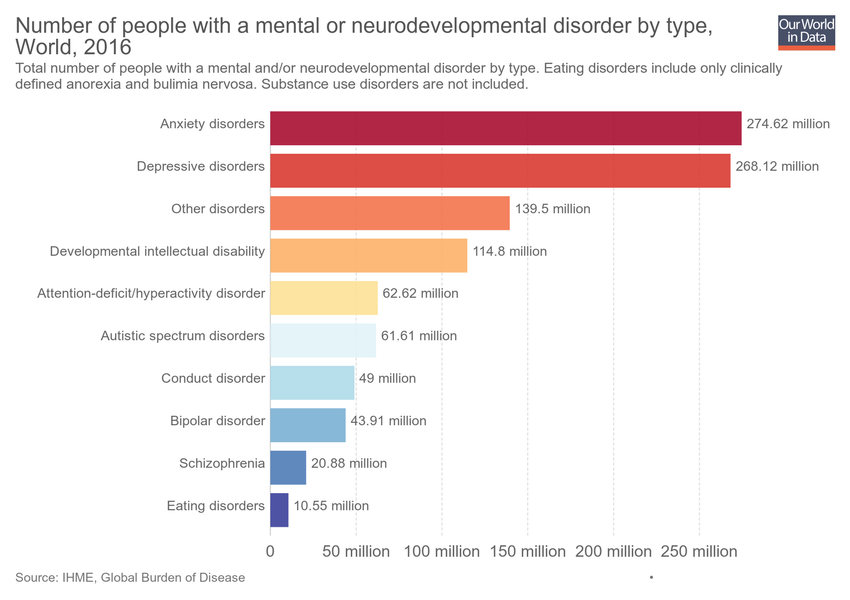
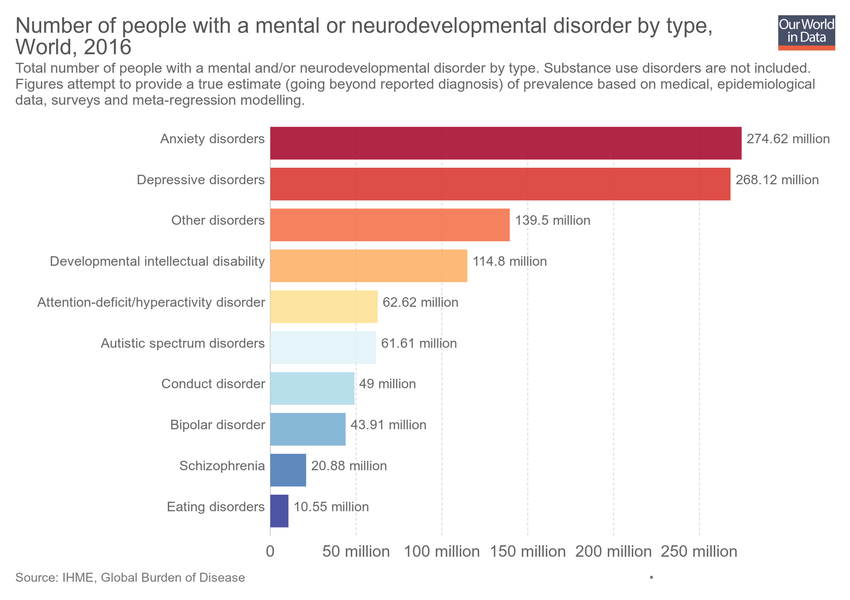
Updating chart number-with-mental-and-neurodevelopmental-disorders-by-type

diff --git a/grapher/number-with-mental-and-neurodevelopmental-disorders-by-type.html b/grapher/number-with-mental-and-neurodevelopmental-disorders-by-type.html
@@ -1,4 +1,4 @@
-<!doctype html><html><head><meta name="viewport" content="width=device-width, initial-scale=1" /><title>Number of people with a mental or neurodevelopmental disorder by type - Our World in Data</title><meta name="description" content="Total number of people with a mental and/or neurodevelopmental disorder by type. Eating disorders include only clinically defined anorexia and bulimia nervosa. Substance use disorders are not included." /><link rel="canonical" href="https://ourworldindata.org/grapher/number-with-mental-and-neurodevelopmental-disorders-by-type" /><meta property="fb:app_id" content="1149943818390250" /><meta property="og:url" content="https://ourworldindata.org/grapher/number-with-mental-and-neurodevelopmental-disorders-by-type" /><meta property="og:title" content="Number of people with a mental or neurodevelopmental disorder by type" /><meta property="og:description" content="Total number of people with a mental and/or neurodevelopmental disorder by type. Eating disorders include only clinically defined anorexia and bulimia nervosa. Substance use disorders are not included." /><meta property="og:image" content="https://ourworldindata.org/grapher/exports/number-with-mental-and-neurodevelopmental-disorders-by-type.png?v=4" /><meta property="og:image:width" content="850" /><meta property="og:image:height" content="600" /><meta property="og:site_name" content="Our World in Data" /><meta name="twitter:card" content="summary_large_image" /><meta name="twitter:site" content="@OurWorldInData" /><meta name="twitter:creator" content="@OurWorldInData" /><meta name="twitter:title" content="Number of people with a mental or neurodevelopmental disorder by type" /><meta name="twitter:description" content="Total number of people with a mental and/or neurodevelopmental disorder by type. Eating disorders include only clinically defined anorexia and bulimia nervosa. Substance use disorders are not included." /><meta name="twitter:image" content="https://ourworldindata.org/grapher/exports/number-with-mental-and-neurodevelopmental-disorders-by-type.png?v=4" /><style>
+<!doctype html><html><head><meta name="viewport" content="width=device-width, initial-scale=1" /><title>Number of people with a mental or neurodevelopmental disorder by type - Our World in Data</title><meta name="description" content="Total number of people with a mental and/or neurodevelopmental disorder by type. Substance use disorders are not included. Figures attempt to provide a true estimate (going beyond reported diagnosis) of prevalence based on medical, epidemiological data, surveys and meta-regression modelling." /><link rel="canonical" href="https://ourworldindata.org/grapher/number-with-mental-and-neurodevelopmental-disorders-by-type" /><meta property="fb:app_id" content="1149943818390250" /><meta property="og:url" content="https://ourworldindata.org/grapher/number-with-mental-and-neurodevelopmental-disorders-by-type" /><meta property="og:title" content="Number of people with a mental or neurodevelopmental disorder by type" /><meta property="og:description" content="Total number of people with a mental and/or neurodevelopmental disorder by type. Substance use disorders are not included. Figures attempt to provide a true estimate (going beyond reported diagnosis) of prevalence based on medical, epidemiological data, surveys and meta-regression modelling." /><meta property="og:image" content="https://ourworldindata.org/grapher/exports/number-with-mental-and-neurodevelopmental-disorders-by-type.png?v=6" /><meta property="og:image:width" content="850" /><meta property="og:image:height" content="600" /><meta property="og:site_name" content="Our World in Data" /><meta name="twitter:card" content="summary_large_image" /><meta name="twitter:site" content="@OurWorldInData" /><meta name="twitter:creator" content="@OurWorldInData" /><meta name="twitter:title" content="Number of people with a mental or neurodevelopmental disorder by type" /><meta name="twitter:description" content="Total number of people with a mental and/or neurodevelopmental disorder by type. Substance use disorders are not included. Figures attempt to provide a true estimate (going beyond reported diagnosis) of prevalence based on medical, epidemiological data, surveys and meta-regression modelling." /><meta name="twitter:image" content="https://ourworldindata.org/grapher/exports/number-with-mental-and-neurodevelopmental-disorders-by-type.png?v=6" /><style>
         html, body {
             height: 100%;
             margin: 0;
@@ -20,8 +20,8 @@
         }
     </style><noscript><style>
                     figure { display: none !important; }
-                </style></noscript><link rel="stylesheet" href="https://ourworldindata.org/grapher/assets/commons.bundle.dcbbe53805c487d5e57617b10ac73a8a.css" /><link rel="preload" href="/grapher/data/variables/84257+84677+84572+84782+85282+83426+82876+83086+82981+85097.json?v=4" as="fetch" crossorigin /></head><body class="singleChart"><figure data-grapher-src="/grapher/number-with-mental-and-neurodevelopmental-disorders-by-type"></figure><noscript id="fallback"><img src="/grapher/exports/number-with-mental-and-neurodevelopmental-disorders-by-type.svg" /><p>Interactive visualization requires JavaScript</p></noscript><script src="https://cdn.polyfill.io/v2/polyfill.min.js?features=es6,fetch"></script><script src="https://ourworldindata.org/grapher/assets/commons.bundle.43d139222ef978d52c09.js"></script><script src="https://ourworldindata.org/grapher/assets/charts.bundle.43d139222ef978d52c09.js"></script><script>
-        var jsonConfig = {"id":2185,"map":{"projection":"World","colorSchemeLabels":[],"colorSchemeValues":[],"defaultProjection":"World","colorSchemeMinValue":0,"customNumericColors":[],"customCategoryColors":{},"customCategoryLabels":{},"customHiddenCategories":{}},"tab":"chart","slug":"number-with-mental-and-neurodevelopmental-disorders-by-type","type":"DiscreteBar","title":"Number of people with a mental or neurodevelopmental disorder by type","xAxis":{"scaleType":"linear"},"yAxis":{"min":0,"scaleType":"linear"},"version":4,"subtitle":"Total number of people with a mental and/or neurodevelopmental disorder by type. Eating disorders include only clinically defined anorexia and bulimia nervosa. Substance use disorders are not included.","hasMapTab":false,"stackMode":"absolute","dimensions":[{"display":{"name":"Depressive disorders","unit":"people"},"property":"y","variableId":84257},{"display":{"name":"Anxiety disorders","unit":"people"},"property":"y","variableId":84677},{"display":{"name":"Bipolar disorder","unit":"people"},"property":"y","variableId":84572},{"display":{"name":"Eating disorders","unit":"people"},"property":"y","variableId":84782},{"display":{"name":"Schizophrenia","unit":"people"},"property":"y","variableId":85282},{"display":{"name":"Attention-deficit/hyperactivity disorder","unit":"people"},"property":"y","variableId":83426},{"display":{"name":"Conduct disorder","unit":"people"},"property":"y","variableId":82876},{"display":{"name":"Other disorders","unit":"people"},"property":"y","variableId":83086},{"display":{"name":"Developmental intellectual disability","unit":"people"},"property":"y","variableId":82981},{"display":{"name":"Autistic spectrum disorders","unit":"people"},"property":"y","variableId":85097}],"sourceDesc":"IHME, Global Burden of Disease","hasChartTab":true,"isPublished":true,"selectedData":[{"index":0,"entityId":355},{"index":1,"entityId":355},{"index":2,"entityId":355},{"index":3,"entityId":355},{"index":4,"entityId":355},{"index":5,"entityId":355},{"index":6,"entityId":355},{"index":7,"entityId":355},{"index":8,"entityId":355},{"index":9,"entityId":355}],"addCountryMode":"change-country","baseColorScheme":"RdYlBu","invertColorScheme":true};
+                </style></noscript><link rel="stylesheet" href="https://ourworldindata.org/grapher/assets/commons.bundle.dcbbe53805c487d5e57617b10ac73a8a.css" /><link rel="preload" href="/grapher/data/variables/84257+84677+84572+84782+85282+83426+82876+83086+82981+85097.json?v=6" as="fetch" crossorigin /></head><body class="singleChart"><figure data-grapher-src="/grapher/number-with-mental-and-neurodevelopmental-disorders-by-type"></figure><noscript id="fallback"><img src="/grapher/exports/number-with-mental-and-neurodevelopmental-disorders-by-type.svg" /><p>Interactive visualization requires JavaScript</p></noscript><script src="https://cdn.polyfill.io/v2/polyfill.min.js?features=es6,fetch"></script><script src="https://ourworldindata.org/grapher/assets/commons.bundle.43d139222ef978d52c09.js"></script><script src="https://ourworldindata.org/grapher/assets/charts.bundle.43d139222ef978d52c09.js"></script><script>
+        var jsonConfig = {"id":2185,"map":{"projection":"World","colorSchemeLabels":[],"colorSchemeValues":[],"colorSchemeMinValue":0,"customNumericColors":[],"customCategoryColors":{},"customCategoryLabels":{},"customHiddenCategories":{}},"tab":"chart","slug":"number-with-mental-and-neurodevelopmental-disorders-by-type","type":"DiscreteBar","title":"Number of people with a mental or neurodevelopmental disorder by type","xAxis":{"scaleType":"linear"},"yAxis":{"min":0,"scaleType":"linear"},"version":6,"subtitle":"Total number of people with a mental and/or neurodevelopmental disorder by type. Substance use disorders are not included. Figures attempt to provide a true estimate (going beyond reported diagnosis) of prevalence based on medical, epidemiological data, surveys and meta-regression modelling.","hasMapTab":false,"stackMode":"absolute","dimensions":[{"display":{"name":"Depressive disorders","unit":"people"},"property":"y","variableId":84257},{"display":{"name":"Anxiety disorders","unit":"people"},"property":"y","variableId":84677},{"display":{"name":"Bipolar disorder","unit":"people"},"property":"y","variableId":84572},{"display":{"name":"Eating disorders","unit":"people"},"property":"y","variableId":84782},{"display":{"name":"Schizophrenia","unit":"people"},"property":"y","variableId":85282},{"display":{"name":"Attention-deficit/hyperactivity disorder","unit":"people"},"property":"y","variableId":83426},{"display":{"name":"Conduct disorder","unit":"people"},"property":"y","variableId":82876},{"display":{"name":"Other disorders","unit":"people"},"property":"y","variableId":83086},{"display":{"name":"Developmental intellectual disability","unit":"people"},"property":"y","variableId":82981},{"display":{"name":"Autistic spectrum disorders","unit":"people"},"property":"y","variableId":85097}],"sourceDesc":"IHME, Global Burden of Disease","hasChartTab":true,"isPublished":true,"selectedData":[{"index":0,"entityId":355},{"index":1,"entityId":355},{"index":2,"entityId":355},{"index":3,"entityId":355},{"index":4,"entityId":355},{"index":5,"entityId":355},{"index":6,"entityId":355},{"index":7,"entityId":355},{"index":8,"entityId":355},{"index":9,"entityId":355}],"addCountryMode":"change-country","baseColorScheme":"RdYlBu","invertColorScheme":true};
         var figure = document.getElementsByTagName("figure")[0];
         try {
             window.App = {};
